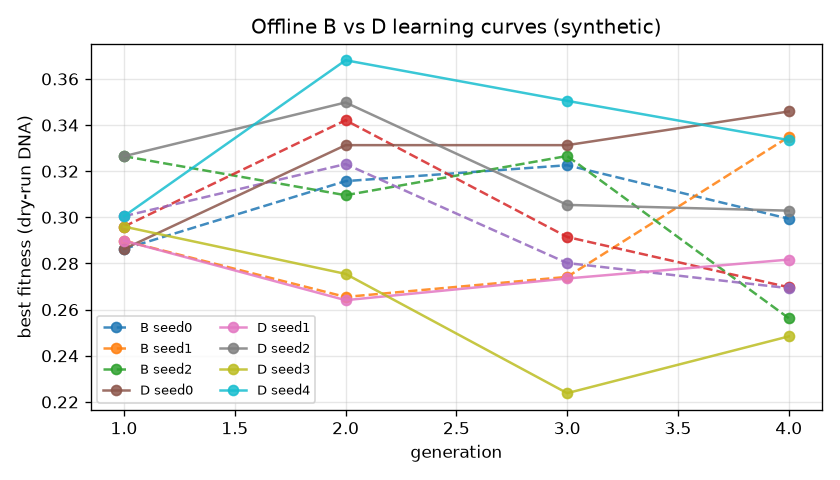
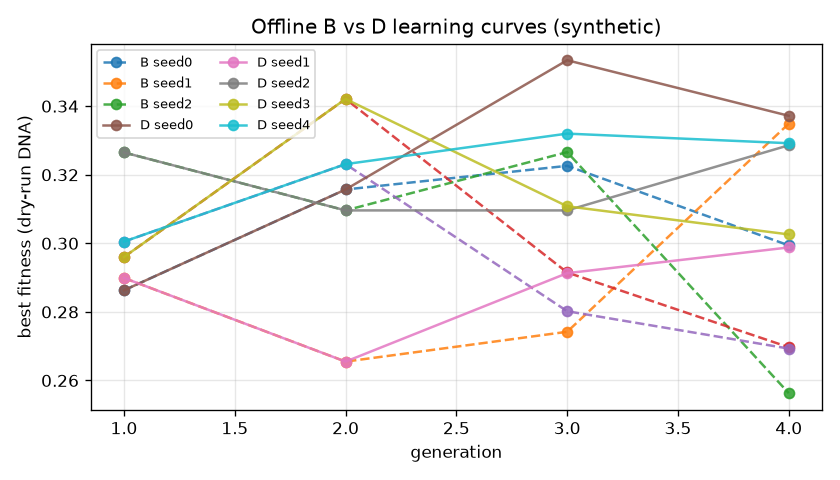
Document Tick 14 delay-all mutation offline B vs D pilot.
Offline final wins 4/5 and mean gap ~3.34pp; gen2 preferred share
fixed at 0.5; gens30 still 0/5 and H5 3/5. Keep ICML STATUS IN_PROGRESS.

diff --git a/docs/paper_artifacts.md b/docs/paper_artifacts.md
@@ -1,10 +1,10 @@
 # ICML paper artifacts
 
-**Status:** offline mechanism pack + synthetic B vs D pilot refreshed (2026-08-04 Tick 13). No publishable **live** GPQA figures/tables yet.
+**Status:** offline mechanism pack + synthetic B vs D pilot refreshed (2026-08-05 Tick 14). No publishable **live** GPQA figures/tables yet.
 
 ## Abstract (draft — do not claim READY)
 
-We study whether a Contradiction-Aware Belief System (CABS) improves sample efficiency of population-based Darwinian self-improvement. Fitness-only evolution (Condition B) is compared to epistemic-full steering (Condition D: beliefs → contradictions → research questions → fitness-weighted biased mutation / bias-aware crossover / scoped feedback). Offline dry-run pilots with additive latent DNA fitness show a concrete case study (contradiction → preferred DNA → population skew → fitness lift) and D final-fitness wins on **3/5** seeds. **Tempering early mutation bias (soft rank weights on gen1→gen2; preferred anchoring from gen≥2) partially restored offline H5 (3/5) and raised mean final gap to ~1.66pp, but gens-to-30% remains 0/5; live multi-seed GPQA subset results pending.** Mechanism claim requires measurable DNA trait skew under contradiction bias (H2) and predictive validity of epistemic value for next-step fitness gain (H5) on live runs.
+We study whether a Contradiction-Aware Belief System (CABS) improves sample efficiency of population-based Darwinian self-improvement. Fitness-only evolution (Condition B) is compared to epistemic-full steering (Condition D: beliefs → contradictions → research questions → fitness-weighted biased mutation / bias-aware crossover / scoped feedback). Offline dry-run pilots with additive latent DNA fitness show a concrete case study (contradiction → preferred DNA → population skew → fitness lift) and D final-fitness wins on **4/5** seeds (mean gap ~**3.34pp**). **Delaying all Condition D DNA steering until breeding from gen≥2 prevents early preferred-allele collapse (case-study gen2 share 0.5) and strengthens offline final wins, but gens-to-30% remains 0/5 and live multi-seed GPQA subset results are pending.** Mechanism claim requires measurable DNA trait skew under contradiction bias (H2) and predictive validity of epistemic value for next-step fitness gain (H5) on live runs.
 
 
 ## Reproducible run IDs
@@ -21,8 +21,9 @@ We study whether a Contradiction-Aware Belief System (CABS) improves sample effi
 | B / D (Tick 11 hard-XO mid) | 11–55 | 1530–1534 / 1540–1544 | Intermediate — hard preferred XO over-collapsed diversity |
 | B / D (Tick 11 soft-XO pilot) | 11–55 | 1550–1554 / 1560–1564 | Superseded by Tick 12 delayed-XO pilot |
 | B / D (Tick 12 delayed-XO pilot) | 11–55 | 1570–1574 / 1580–1584 | Superseded by Tick 13 tempered-mutation pilot |
-| B darwinian-only (offline pilot Tick 13) | 11/22/33/44/55 | 1590–1594 | Tempered early mutation control; gitignored `runs/` |
-| D epistemic_full (offline pilot Tick 13) | 11/22/33/44/55 | 1600–1604 | Final wins 3/5; H5 3/5; case study on `1600` |
+| B / D (Tick 13 tempered-mutation pilot) | 11–55 | 1590–1594 / 1600–1604 | Superseded by Tick 14 delay-all mutation bias |
+| B darwinian-only (offline pilot Tick 14) | 11/22/33/44/55 | 1610–1614 | Delay-all mutation bias control; gitignored `runs/` |
+| D epistemic_full (offline pilot Tick 14) | 11/22/33/44/55 | 1620–1624 | Final wins 4/5; H5 3/5; case study on `1620` |
 | B darwinian-only | — | — | none yet (live) |
 | D epistemic_full | — | — | none yet (live) |
 
@@ -30,17 +31,17 @@ Reserve unused integer IDs; never overwrite. Next live IDs suggested: B `1201+`,
 
 ## Table 1 — Primary (B vs D)
 
-### Offline synthetic pilot (Tick 13 — not PRIMARY)
+### Offline synthetic pilot (Tick 14 — not PRIMARY)
 
 | Seed | B final | D final | B gens@25% | D gens@25% | B gens@30% | D gens@30% | Winner (final>1pp / gens30) |
 |------|---------|---------|------------|------------|------------|------------|------------------------------|
-| 11 | 0.2994 | 0.3459 | 1 | 1 | 2 | 2 | D / tie |
-| 22 | 0.3349 | 0.2817 | 1 | 1 | 4 | — | B / B |
-| 33 | 0.2563 | 0.3029 | 1 | 1 | 1 | 1 | D / tie |
-| 44 | 0.2697 | 0.2484 | 1 | 1 | 2 | — | B / B |
-| 55 | 0.2693 | 0.3335 | 1 | 1 | 1 | 1 | D / tie |
+| 11 | 0.2994 | 0.3372 | 1 | 1 | 2 | 2 | D / tie |
+| 22 | 0.3349 | 0.2988 | 1 | 1 | 4 | — | B / B |
+| 33 | 0.2563 | 0.3286 | 1 | 1 | 1 | 1 | D / tie |
+| 44 | 0.2697 | 0.3026 | 1 | 1 | 2 | 2 | D / tie |
+| 55 | 0.2693 | 0.3292 | 1 | 1 | 1 | 1 | D / tie |
 
-Mean final: B ≈ 0.286, D ≈ 0.302 (gap ~**1.66pp**). D final wins 3/5; gens30 wins 0/5. Source: `docs/offline_bvd_summary.json`.
+Mean final: B ≈ 0.286, D ≈ 0.319 (gap ~**3.34pp**). D final wins 4/5; gens30 wins 0/5. Source: `docs/offline_bvd_summary.json`.
 
 ### Live GPQA
 
@@ -54,14 +55,15 @@ Mean final: B ≈ 0.286, D ≈ 0.302 (gap ~**1.66pp**). D final wins 3/5; gens30
 |--------|-------|-------|
 | H2 trait skew (live API) | — | — |
 | H2 dry-run scoped bias (G1) | memory∈{failure_based,none}; tool_strategy∈{aggressive,minimal}; ≠ full enums | yes (dry-run) |
-| H2 offline pilot D (Tick 13) | soft early mutate + delayed soft bias-aware XO; preferred share can still hit 1.0 by gen2 | informative (dry-run) |
-| H2 unit skew test | pass (+ preferred-allele anchoring + bias-aware / delayed XO + tempered early mutate) | yes (unit) |
+| H2 offline pilot D (Tick 14) | delay-all DNA steering until gen≥2; case-study gen2 preferred share **0.5** | informative (dry-run) |
+| H2 unit skew test | pass (+ preferred-allele anchoring + bias-aware / delayed XO + tempered early mutate + delay-all mutation bias) | yes (unit) |
 | Fitness-weighted bias order | higher-fitness side first; exponential rank weights | yes (unit) |
 | Singleton bias skip | `load_mutation_bias` requires ≥2 distinct candidates | yes (unit, Tick 10) |
 | Bias-aware crossover | soft p=0.85 preferred inherit; delayed until breeding from gen≥2 | yes (unit, Tick 11–12) |
-| Tempered early mutation | soft rank-weighted mutate gen1→gen2; full anchoring from gen≥2 | yes (unit, Tick 13) |
-| Case study chain | `docs/case_study_offline.md` (`run_1600`) | yes (offline) |
-| H5 Spearman ρ | offline D `1600–1604`: **3/5** ρ>0.3 (partial restore vs Tick 12 2/5); live pending | offline soft; live need > 0.3 |
+| Tempered early mutation | soft rank-weighted mutate option retained (`anchor_preferred`) | yes (unit, Tick 13) |
+| Delay-all mutation bias | fair mutate gen1→gen2; full bias+anchor from gen≥2 (`apply_mutation_bias`) | yes (unit, Tick 14) |
+| Case study chain | `docs/case_study_offline.md` (`run_1620`) | yes (offline) |
+| H5 Spearman ρ | offline D `1620–1624`: **3/5** ρ>0.3; live pending | offline soft; live need > 0.3 |
 | Steering opportunity term | `fitness_gap × (1 − preferred share)` in epi | yes (unit + offline) |
 
 ## Figures
@@ -73,7 +75,7 @@ Mean final: B ≈ 0.286, D ≈ 0.302 (gap ~**1.66pp**). D final wins 3/5; gens30
 
 ## Case study (offline)
 
-See `docs/case_study_offline.md`. Summary: gen1 contradiction on `tool_strategy` (`selective` vs `aggressive`) → fitness-weighted bias prefers `selective` → gen2 preferred share **1.0** → fitness lift **+0.0646** vs loser side (`run_1600`).
+See `docs/case_study_offline.md`. Summary: gen1 contradiction on `tool_strategy` (`selective` vs `aggressive`) → fitness-weighted bias prefers `selective` → gen2 preferred share **0.5** (fair early breed) → fitness lift **+0.0473** vs loser side (`run_1620`).
 
 ## Limitations (honest, keep updated)
 
@@ -82,11 +84,12 @@ See `docs/case_study_offline.md`. Summary: gen1 contradiction on `tool_strategy`
 - Pre-Tick-7 bias treated both contradiction sides uniformly; now fitness-weighted + preferred-allele anchoring (unit-tested) but **unverified on live GPQA**.
 - Soft bias-aware crossover (Tick 11) raised offline final seed wins to 3/5 but **hurt gens-to-30% (0/5) and H5 (2/5)** vs Tick 10.
 - Delayed crossover bias (Tick 12) **did not restore gens30/H5** — mutation bias alone collapsed preferred alleles by gen2.
-- Tempered early mutation bias (Tick 13) **partially restored H5 (3/5)** and mean gap (~1.66pp) but **gens30 still 0/5**; case-study preferred share can still hit 1.0 by gen2 under soft rank weights.
+- Tempered early mutation bias (Tick 13) **partially restored H5 (3/5)** and mean gap (~1.66pp) but **gens30 still 0/5**; case-study preferred share could still hit 1.0 by gen2 under soft rank weights.
+- Delay-all mutation bias (Tick 14) **fixed gen2 preferred collapse** (share 0.5) and raised final wins to **4/5** / mean gap ~**3.34pp**, but **gens30 still 0/5** at `max_gen=4` (only two biased breeding rounds after the delay) and H5 remains **3/5**.
 - Scoped feedback now mirrors mutation-bias DNA candidates (2026-08-04); still untested on live rewrite quality.
 - `--cabs-inline` + G1 dry-run PASS (2026-08-04); G2–G4 **live** B vs D evidence still missing.
-- Tick 8 opaque DNA-hash fitness made offline D final 4/5 look strong but was **non-causal**; Tick 9–13 additive latent fitness is honest — offline PRIMARY still **not publishable** (gens30 fail; H5 soft; mean gap soft; no live GPQA).
-- No cloud API keys in this environment as of 2026-08-04 — no new paid evidence this tick.
+- Tick 8 opaque DNA-hash fitness made offline D final 4/5 look strong but was **non-causal**; Tick 9–14 additive latent fitness is honest — offline PRIMARY still **not publishable** (gens30 fail; H5 soft; no live GPQA).
+- No cloud API keys in this environment as of 2026-08-05 — no new paid evidence this tick.
 - Expect Condition D token cost ≥ B if CABS/committee calls are counted; primary win may be gens-to-threshold or cost-to-threshold, not raw final accuracy.
 - Small eval subsets and seed counts limit statistical power; avoid overclaiming.
 
@@ -98,7 +101,8 @@ See `docs/case_study_offline.md`. Summary: gen1 contradiction on `tool_strategy`
 | Singleton bias skip | `load_mutation_bias` requires ≥2 distinct candidates (Tick 10) |
 | Fitness-weighted bias order | `load_mutation_bias` + exponential rank-weighted `_biased_choice` |
 | Preferred-allele anchoring | `SIA/sia/evolution/operators.py::_biased_choice` (Tick 10) |
-| Tempered early mutation | `anchor_preferred` / `apply_mutation_anchor`; soft until breeding from gen≥2 (Tick 13) |
+| Tempered early mutation | `anchor_preferred` / `apply_mutation_anchor` (Tick 13; now gated with delay-all) |
+| Delay-all mutation bias | `breed_offspring(..., apply_mutation_bias=)` + `population.py` gen≥2 gate (Tick 14) |
 | Bias-aware crossover | `SIA/sia/evolution/operators.py::_crossover_pick` + `crossover(..., bias=)` (Tick 11; soft p=0.85) |
 | Delayed crossover bias | `breed_offspring(..., apply_crossover_bias=)` + `population.py` gen≥2 gate (Tick 12) |
 | Scoped feedback DNA targets | `SIA/sia/evolution/cabs_bridge.py::load_cabs_agenda` |

diff --git a/docs/HACKATHON_MASTER_PLAN.md b/docs/HACKATHON_MASTER_PLAN.md
@@ -2,7 +2,7 @@
 
 > **READ THIS FIRST.** Any agent working on this repo must read this entire document before planning, coding, or running expensive commands. Do not re-plan from scratch. Implement in phase order with gates.
 
-**Last updated:** 2026-08-04 (Section 21 ICML; Tick 13 tempered early mutation bias; offline final 3/5, H5 3/5, gens30 still 0/5)  
+**Last updated:** 2026-08-05 (Section 21 ICML; Tick 14 delay-all mutation bias; offline final 4/5, mean ~3.34pp, H5 3/5, gens30 still 0/5)  
 **Project:** SIA-CABS (Contradiction-Aware Belief System) — **Layer 1 of unified self-improvement stack**  
 **Workspace:** `c:\Users\MSPSA\Documents\SIA2`  
 **Sibling repo:** Darwinian AI Civilization → `c:\Users\MSPSA\Documents\SIA` (build in parallel; merge later)  
@@ -805,18 +805,19 @@ Computed in `cabs/belief_engine.py`:
 | Singleton bias pool skip | **DONE** | Tick 10: `load_mutation_bias` requires ≥2 distinct candidates (same-allele disputes skipped) |
 | Soft bias-aware crossover | **DONE** | Tick 11: `crossover(..., bias=)` inherits preferred allele with p=0.85; `breed_offspring` forwards bias |
 | Delayed crossover bias (gen≥2) | **DONE** | Tick 12: fair XO gen1→gen2; soft bias XO from gen2→gen3+ (`apply_crossover_bias`) |
-| Tempered early mutation bias | **DONE** | Tick 13: soft rank-weighted mutate gen1→gen2; full preferred anchoring from gen≥2 (`apply_mutation_anchor`); H5 3/5; gens30 still 0/5 |
+| Tempered early mutation bias | **DONE** | Tick 13: soft rank-weighted mutate option (`apply_mutation_anchor`); superseded for early gens by Tick 14 delay-all |
+| Delay-all mutation bias (gen≥2) | **DONE** | Tick 14: fair mutate+XO gen1→gen2; full CABS steering from gen≥2 (`apply_mutation_bias`); final 4/5; mean ~3.34pp; gens30 still 0/5 |
 | CABS scoped feedback DNA targets | **DONE** | Agenda injects same contradiction-scoped candidates as bias (2026-08-04) |
 | `--cabs-inline` epistemic_full loop | **DONE** | `cabs_inline.py` + CLI; analyze after each gen; `epistemic_value.jsonl` |
 | ICML G1 dry-run Condition D | **DONE** | `run_1401` + `test_cabs_inline_dry_run.py` (2026-08-04) |
 | Dry-run DNA-deterministic fitness | **DONE** | Tick 9: **additive latent** trait scores (DNA-transferable; causal bias→fitness); scaled for 25/30% thresholds |
 | Steering opportunity in epistemic_value | **DONE** | Tick 9: `fitness_gap × (1 − preferred share)` term in `cabs_inline._epistemic_value` |
 | `scripts/epistemic_results.py` | **DONE** | H5/H2/PRIMARY helpers; gens-to-30% win counting |
-| Offline B vs D case-study pilot | **DONE** | Latest `1590–1594` / `1600–1604`; case study `docs/case_study_offline.md` (`run_1600`); final 3/5; gens30 0/5; H5 3/5; mean gap ~1.66pp |
+| Offline B vs D case-study pilot | **DONE** | Latest `1610–1614` / `1620–1624`; case study `docs/case_study_offline.md` (`run_1620`); final 4/5; gens30 0/5; H5 3/5; mean gap ~3.34pp |
 | ICML B vs D multi-seed GPQA | **NOT DONE** | Blocked: no API keys in cloud env; budget check required |
 | H2 DNA trait skew evidence | **PARTIAL** | Unit + dry-run + offline case study; need live API |
 | Non-constant epistemic_value (H5) | **DONE (offline)** | Age-decay + flow + steering opportunity (`cabs_inline.py`) |
-| H5 Spearman ρ validity | **PARTIAL** | Offline Tick 13 **3/5** ρ>0.3 (`1600–1604`; partial restore vs Tick 12 2/5); live required |
+| H5 Spearman ρ validity | **PARTIAL** | Offline Tick 14 **3/5** ρ>0.3 (`1620–1624`); live required |
 | Paper artifacts (Figs 1–2, Tables 1–2) | **PARTIAL** | Offline figs + Table 1 stub; live empty — see `docs/paper_artifacts.md` |
 | `docs/ICML_READY.md` | **IN_PROGRESS** | STATUS not READY until criteria 1–4 pass (live PRIMARY) |
 
@@ -1591,4 +1592,10 @@ sia run --task gpqa --darwinian --population_size 4 --elite_count 2 \
 
 **Preferred-allele anchoring + singleton bias skip (2026-08-04 Tick 10):** Same-allele cross-agent disputes produced singleton bias pools that wiped better elites. Now require ≥2 distinct candidates; `_biased_choice` anchors on the fitness-ranked preferred allele. Offline re-pilot `1510–1514` / `1520–1524` → gens30 **2/5**, mean final gap ~**2.56pp**, H5 **4/5** (pooled ≈0.23).
 
-**Soft bias-aware crossover (2026-08-04 Tick 11):** Fair 50/50 crossover diluted preferred alleles under Condition D. `crossover(..., bias=)` now soft-inherits the fitness-ranked preferred parental allele (p=0.85); `breed_offspring` forwards bias to both XO and mutate. Offline re-pilot `1550–1554` / `1560–1564` → final wins **3/5**, mean gap ~**2.13pp**, but gens30 **0/5** and H5 **2/5** (regressions). Remaining gap: restore offline H5/gens30 or (preferred) API-backed G2–G4 live B vs D seeds (keys absent in cloud env).
+**Soft bias-aware crossover (2026-08-04 Tick 11):** Fair 50/50 crossover diluted preferred alleles under Condition D. `crossover(..., bias=)` now soft-inherits the fitness-ranked preferred parental allele (p=0.85); `breed_offspring` forwards bias to both XO and mutate. Offline re-pilot `1550–1554` / `1560–1564` → final wins **3/5**, mean gap ~**2.13pp**, but gens30 **0/5** and H5 **2/5** (regressions).
+
+**Delayed crossover bias (2026-08-04 Tick 12):** Fair XO on gen1→gen2; soft bias XO from gen2→gen3+ (`apply_crossover_bias`). Nearly a no-op at `max_gen=4` because mutation bias alone collapsed preferred share by gen2.
+
+**Tempered early mutation bias (2026-08-04 Tick 13):** Soft rank-weighted mutate gen1→gen2; full preferred anchoring from gen≥2 (`apply_mutation_anchor`). Offline `1590–1594` / `1600–1604` → final **3/5**, mean ~**1.66pp**, H5 **3/5**; gens30 still **0/5**; case-study preferred share could still hit 1.0 by gen2.
+
+**Delay-all mutation bias (2026-08-05 Tick 14):** Fair mutate+XO on gen1→gen2; full CABS steering from gen≥2 (`apply_mutation_bias`). Offline `1610–1614` / `1620–1624` → final **4/5**, mean ~**3.34pp**, H5 **3/5**, case-study gen2 preferred share **0.5** (collapse fixed); gens30 still **0/5** at `max_gen=4`. Remaining gap: longer-horizon offline (`max_gen≥6`) for gens30, or (preferred) API-backed G2–G4 live B vs D seeds (keys absent in cloud env).

diff --git a/docs/ICML_READY.md b/docs/ICML_READY.md
@@ -10,7 +10,7 @@ Do not set STATUS: READY until every item below is checked and evidence paths ar
 - [ ] D beats B on ≥3/5 seeds for gens-to-threshold (25% or 30%), **or**
 - [ ] D beats B on ≥3/5 seeds for cost-to-threshold (≥15% fewer tokens/calls), **or**
 - [ ] Non-trivial mean final accuracy gap (not ~1pp noise)
-- Evidence: offline synthetic pilot `1590–1594` vs `1600–1604` (Tick 13, tempered early mutation bias) — D final wins **3/5** (>1pp margin), gens30 wins **0/5** (B: 2), mean final gap ~**1.66pp**. Soft early mutate improved H5/mean gap vs Tick 12 but **did not** restore gens30; case-study preferred share can still hit 1.0 by gen2. **Not** live GPQA — do not count for READY. Live → `docs/paper_artifacts.md` Table 1
+- Evidence: offline synthetic pilot `1610–1614` vs `1620–1624` (Tick 14, delay-all mutation bias) — D final wins **4/5** (>1pp margin), gens30 wins **0/5** (B: 1), mean final gap ~**3.34pp**. Delaying all DNA steering until gen≥2 stopped gen2 preferred collapse (case-study share **0.5**) and raised final/mean gap vs Tick 13, but **gens30 still fails**. **Not** live GPQA — do not count for READY. Live → `docs/paper_artifacts.md` Table 1
 
 ### 2. MECHANISM — H2 or case study
 - [x] Unit-level H2: contradiction bias skews DNA vs uniform (`SIA/tests/test_cabs_bridge.py`)
@@ -21,13 +21,14 @@ Do not set STATUS: READY until every item below is checked and evidence paths ar
 - [x] Bias-aware crossover (Tick 11) — soft preferred inherit in `crossover(..., bias=)` + `test_bias_aware_crossover_prefers_winner_allele`
 - [x] Delayed crossover bias (Tick 12) — fair XO gen1→gen2; soft bias XO from gen2→gen3+ (`apply_crossover_bias`, `test_breed_offspring_can_delay_crossover_bias`)
 - [x] Tempered early mutation bias (Tick 13) — soft rank-weighted mutate gen1→gen2; full preferred anchoring from gen≥2 (`apply_mutation_anchor`, `test_biased_mutate_can_soften_preferred_anchor`)
-- [x] Documented case study (tie → contradiction → different DNA → fitness lift) with artifacts — offline dry-run `docs/case_study_offline.md` + `run_1600` (`selective` preferred → gen2 share 1.0; lift +0.0646)
+- [x] Delayed **all** mutation bias (Tick 14) — fair mutate+XO gen1→gen2; full CABS steering from gen≥2 (`apply_mutation_bias`, `test_breed_offspring_can_delay_all_mutation_bias`)
+- [x] Documented case study (tie → contradiction → different DNA → fitness lift) with artifacts — offline dry-run `docs/case_study_offline.md` + `run_1620` (`selective` preferred → gen2 share **0.5**; lift +0.0473)
 - [ ] Live API-run H2 DNA trait skew under contradiction bias
-- Evidence: unit + dry-run G1 + scoped feedback + fitness-weighted order + preferred anchoring + bias-aware/delayed XO + tempered early mutation + offline case study; live GPQA still pending (no API keys)
+- Evidence: unit + dry-run G1 + scoped feedback + fitness-weighted order + preferred anchoring + bias-aware/delayed XO + tempered early mutation + delay-all mutation bias + offline case study; live GPQA still pending (no API keys)
 
 ### 3. VALIDITY — H5
 - [ ] Spearman ρ (`epistemic_value_t` vs `Δfitness_t+1`) > 0.3 on live / publishable runs
-- Evidence: offline multi-seed Condition D `1600–1604` → ρ>0.3 on **3/5** seeds (0.5 / −0.5 / 0.5 / −0.5 / 0.5) — partial restore vs Tick 12 (2/5), still below Tick 10 (4/5). Still **not** live GPQA.
+- Evidence: offline multi-seed Condition D `1620–1624` → ρ>0.3 on **3/5** seeds (0.5 / −0.5 / −1.0 / 0.5 / 1.0) — same pass rate as Tick 13. Still **not** live GPQA.
 
 ### 4. PAPER
 - [x] Figure 1 draft (offline B vs D learning curves) — `docs/figures/fig1_learning_curves.png`
@@ -43,9 +44,9 @@ Do not set STATUS: READY until every item below is checked and evidence paths ar
 
 | Gate | Status |
 |------|--------|
-| G0 mechanism unit tests | **PASS** (2026-08-03; + tempered early mutation bias Tick 13) |
+| G0 mechanism unit tests | **PASS** (2026-08-03; + delay-all mutation bias Tick 14) |
 | G1 dry-run Condition D | **PASS** (2026-08-04) — `run_1401` + `test_cabs_inline_dry_run.py` |
 | G2 smoke GPQA subset | BLOCKED (no API keys) |
-| G3 pilot B vs D | Offline synthetic pilot refreshed (Tick 13); **live** G3 NOT STARTED |
+| G3 pilot B vs D | Offline synthetic pilot refreshed (Tick 14); **live** G3 NOT STARTED |
 | G4 5-seed + metrics | NOT STARTED (live) |
 | G5 paper pack | PARTIAL (offline figs + case study; H5 soft); live pack NOT STARTED |

diff --git a/docs/gate3_report.md b/docs/gate3_report.md
@@ -1,33 +1,33 @@
 # Gate 3 report — Pilot B vs D
 
-**Status:** Offline synthetic pilot **refreshed** (2026-08-04 Tick 13); **live** G3 still blocked on API keys
+**Status:** Offline synthetic pilot **refreshed** (2026-08-05 Tick 14); **live** G3 still blocked on API keys
 
 Gate 3 (Section 21.5): pilot Condition B vs D on 1–2 seeds, `--eval_subset 15`, `max_gen ≤ 5`, before full 5-seed spend.
 
-## Offline synthetic pilot (Tick 13 — not a live G3 substitute)
+## Offline synthetic pilot (Tick 14 — not a live G3 substitute)
 
 | Cond | Seeds | Pop | Elite | max_gen | eval_subset | Run IDs |
 |------|-------|-----|-------|---------|-------------|---------|
-| B | 11,22,33,44,55 | 4 | 2 | 4 | 3 | `1590–1594` |
-| D | 11,22,33,44,55 | 4 | 2 | 4 | 3 | `1600–1604` |
+| B | 11,22,33,44,55 | 4 | 2 | 4 | 3 | `1610–1614` |
+| D | 11,22,33,44,55 | 4 | 2 | 4 | 3 | `1620–1624` |
 
-Harness: `scripts/offline_bvd_case_study.py` (additive latent dry-run fitness + tempered early mutation bias + delayed soft bias-aware crossover).
+Harness: `scripts/offline_bvd_case_study.py` (additive latent dry-run fitness + delay-all mutation bias until gen≥2 + delayed soft bias-aware crossover).
 
 | Metric | Result |
 |--------|--------|
-| D final-fitness wins (>1pp) | **3/5** |
-| B final-fitness wins (>1pp) | **2/5** |
-| Mean final (B / D) | ~0.286 / ~0.302 (~**1.66pp**) |
-| D gens-to-30% wins | **0/5** (B: 2) — still fail |
+| D final-fitness wins (>1pp) | **4/5** |
+| B final-fitness wins (>1pp) | **1/5** |
+| Mean final (B / D) | ~0.286 / ~0.319 (~**3.34pp**) |
+| D gens-to-30% wins | **0/5** (B: 1) — still fail |
 | Gens-to-25% | Both hit gen1 (still often saturated) |
-| H5 ρ>0.3 (D seeds) | **3/5** — partial restore vs Tick 12 (2/5) |
-| Case study | `docs/case_study_offline.md` (`run_1600`) |
+| H5 ρ>0.3 (D seeds) | **3/5** |
+| Case study | `docs/case_study_offline.md` (`run_1620`) — gen2 preferred share **0.5** |
 | Figures | `docs/figures/fig1_learning_curves.png`, `fig2_mechanism.png` |
 | Summary JSON | `docs/offline_bvd_summary.json` |
 
-**Finding:** soft (non-anchored) mutation bias on gen1→gen2 improves H5 to 3/5 and mean gap to ~1.66pp, but case-study preferred share can still reach 1.0 by gen2 (rank weights alone + later anchoring) and gens30 remains 0/5.
+**Finding:** delaying *all* DNA steering (XO + mutate) until breeding from gen≥2 stops preferred-share collapse by gen2 (case study 0.5 vs Tick 13's 1.0), raises final wins to 4/5 and mean gap to ~3.34pp, but gens30 remains 0/5 at `max_gen=4` (only two biased breeding rounds after the delay).
 
-Prior Tick-12 pilot `1570–1574` / `1580–1584` superseded for PRIMARY tables. Tick-8 hash-fitness “D final 4/5” remains **withdrawn** (non-causal).
+Prior Tick-13 pilot `1590–1594` / `1600–1604` superseded for PRIMARY tables. Tick-8 hash-fitness “D final 4/5” remains **withdrawn** (non-causal).
 
 ## Blockers (live G3)
 
@@ -51,6 +51,7 @@ Prior Tick-12 pilot `1570–1574` / `1580–1584` superseded for PRIMARY tables.
 - [x] Soft bias-aware crossover (Tick 11) — final wins 3/5 offline
 - [x] Delayed bias-aware crossover (Tick 12) — mutation bias dominated early collapse
 - [x] Tempered early mutation bias (Tick 13) — soft mutate gen1→gen2; H5 3/5; gens30 still 0/5
+- [x] Delay-all mutation bias (Tick 14) — fair breed gen1→gen2; final 4/5; mean ~3.34pp; gens30 still 0/5
 - [ ] G2: smoke GPQA subset (live)
 
 ## Live pilot plan (when unblocked)

diff --git a/docs/case_study_offline.md b/docs/case_study_offline.md
@@ -2,15 +2,15 @@
 
 **Status:** offline dry-run evidence (synthetic GPQA fixture; additive latent DNA fitness). Does **not** satisfy live PRIMARY. Supports MECHANISM case-study criterion.
 
-**Run:** `runs/run_1600` (Tick 13 tempered early mutation bias)
+**Run:** `/workspace/runs/run_1620`
 
 ## Chain
 
 1. **Tie / disagreement:** population agents hold opposing DNA-linked beliefs.
 2. **Contradiction:** topic `tool_use` — 'Agent 0: tool_strategy=selective achieved fitness 0.2863 (population mean 0.2525)' vs 'Agent 1: tool_strategy=aggressive achieved fitness 0.2439 (population mean 0.2525)' (priority=0.85).
 3. **Fitness-weighted bias:** field `tool_strategy` ordered `['selective', 'aggressive']` (prefer `selective`).
-4. **DNA skew:** gen2 share of preferred trait = 1.0.
-5. **Fitness lift:** preferred@gen2 mean − loser@gen1 mean = **+0.0646** (pop mean 0.252525 → 0.308525).
+4. **DNA skew:** gen2 share of preferred trait = 0.5.
+5. **Fitness lift:** preferred@gen2 mean − loser@gen1 mean = **+0.0473** (pop mean 0.252525 → 0.2628).
 
 DNA fitness transferability check: `True` (same DNA ⇒ same score across agent_id/gen).
 
@@ -22,9 +22,9 @@ DNA fitness transferability check: `True` (same DNA ⇒ same score across agent_
   "d_wins_gens25": 0,
   "b_wins_gens25": 0,
   "d_wins_gens30": 0,
-  "b_wins_gens30": 2,
-  "d_wins_final": 3,
-  "b_wins_final": 2,
+  "b_wins_gens30": 1,
+  "d_wins_final": 4,
+  "b_wins_final": 1,
   "primary_gens25_pass": false,
   "primary_gens30_pass": false
 }
@@ -34,7 +34,7 @@ DNA fitness transferability check: `True` (same DNA ⇒ same score across agent_
 
 ```json
 {
-  "run_dir": "/workspace/runs/run_1600",
+  "run_dir": "/workspace/runs/run_1620",
   "field": "tool_strategy",
   "preferred_value": "selective",
   "bias_order": [
@@ -76,13 +76,13 @@ DNA fitness transferability check: `True` (same DNA ⇒ same score across agent_
   "gen2_traits": [
     {
       "agent_id": 0,
-      "trait": "selective",
-      "fitness": 0.319
+      "trait": "minimal",
+      "fitness": 0.2167
     },
     {
       "agent_id": 1,
       "trait": "selective",
-      "fitness": 0.3171
+      "fitness": 0.3157
     },
     {
       "agent_id": 2,
@@ -91,17 +91,17 @@ DNA fitness transferability check: `True` (same DNA ⇒ same score across agent_
     },
     {
       "agent_id": 3,
-      "trait": "selective",
-      "fitness": 0.3313
+      "trait": "aggressive",
+      "fitness": 0.2521
     }
   ],
   "gen1_preferred_mean_fitness": 0.2863,
   "gen1_loser_mean_fitness": 0.2439,
-  "gen2_preferred_mean_fitness": 0.308525,
+  "gen2_preferred_mean_fitness": 0.2912,
   "gen1_pop_mean": 0.252525,
-  "gen2_pop_mean": 0.308525,
-  "fitness_lift": 0.06462499999999999,
-  "gen2_preferred_share": 1.0,
+  "gen2_pop_mean": 0.2628,
+  "fitness_lift": 0.04730000000000001,
+  "gen2_preferred_share": 0.5,
   "dna_fitness_transfers": true,
   "belief_count": 15,
   "agenda_prefers_first": "selective"

diff --git a/docs/ICML_PROGRESS.md b/docs/ICML_PROGRESS.md
@@ -4,6 +4,41 @@ Persistent agent ticks append newest entries at the top.
 
 ---
 
+## 2026-08-05T00:00Z — Tick 14 (automation cron)
+
+### Status snapshot
+- `docs/ICML_READY.md`: **STATUS: IN_PROGRESS**
+- Branch: `cursor/icml-epistemic-results-bb57` (fast-forwarded Ticks 1–13 from `cb6a`, then this tick)
+- API keys in cloud env: **absent** (no paid GPQA this tick)
+- Budget: ~$20 ceiling; spend this tick = $0
+
+### Largest gap diagnosed
+G2–G4 remain blocked without API keys. Offline after Tick 13: final **3/5**, gens30 **0/5**, H5 **3/5**, mean gap ~1.66pp. Soft early mutate still let preferred DNA share hit **1.0 by gen2** — starving gens-to-threshold and limiting further H5 gains.
+
+### What this tick did (ONE step)
+Implemented **delay-all mutation bias until breeding from gen≥2** (fair mutate + fair XO on gen1→gen2; full CABS steering from gen≥2):
+1. `breed_offspring(..., apply_mutation_bias=)` — when False, mutate is uniform even if bias dict is set
+2. `population.py` sets `apply_mutation_bias = (current_gen >= 2)` (same gate as delayed XO / anchoring)
+3. Unit test `test_breed_offspring_can_delay_all_mutation_bias`
+4. Synced `sia-upstream/` copies
+5. Re-pilot B `1610–1614` vs D `1620–1624`; case study on `run_1620`; refreshed figs
+
+### Metrics delta
+| Metric | Before (Tick 13) | After (Tick 14) |
+|--------|------------------|-----------------|
+| Offline D final wins (>1pp) | 3/5 | **4/5** (B final wins 1) |
+| Offline D gens30 wins | 0/5 | **0/5** (B gens30 wins 1) — still fail |
+| Mean final gap (D−B) | ~1.66pp | ~**3.34pp** — improved |
+| Offline H5 ρ>0.3 | 3/5 | **3/5** (0.5 / −0.5 / −1.0 / 0.5 / 1.0) — no change in pass rate |
+| Case study gen2 pref share / lift | 1.0 / +0.0646 (`1600`) | **0.5 / +0.0473** (`1620`) — collapse fixed |
+| Delay-all mutation bias | Missing | **Present** (`apply_mutation_bias`) |
+| Live PRIMARY / G2 | Blocked (no API) | Still blocked |
+
+### Next recommended step
+When `ANTHROPIC_API_KEY` + `NEBIUS_API_KEY` present and budget checked: **G2** smoke GPQA subset (≤5 samples, pop≤2, max_gen≤2, one seed) Condition D with `--cabs --cabs-inline`; then G3 live pilot B vs D. If still no keys: **longer horizon** offline re-pilot `max_gen≥6` (now that gen2 no longer collapses, later gens can show gens30 wins) targeting gens30 ≥3/5 and H5 ≥4/5 while keeping final ≥3/5. Do **not** set READY — live GPQA still required; offline gens30 still 0/5.
+
+---
+
 ## 2026-08-04T20:05Z — Tick 13 (automation cron)
 
 ### Status snapshot
